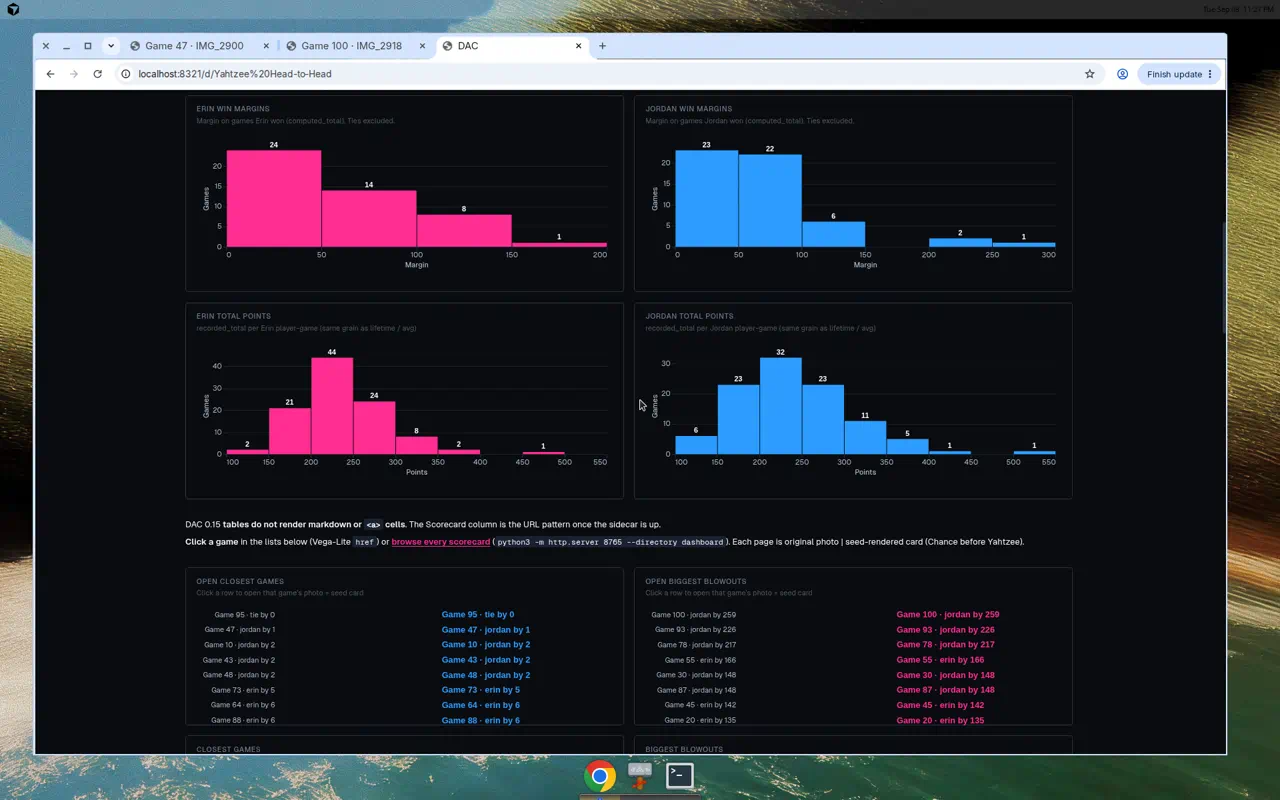
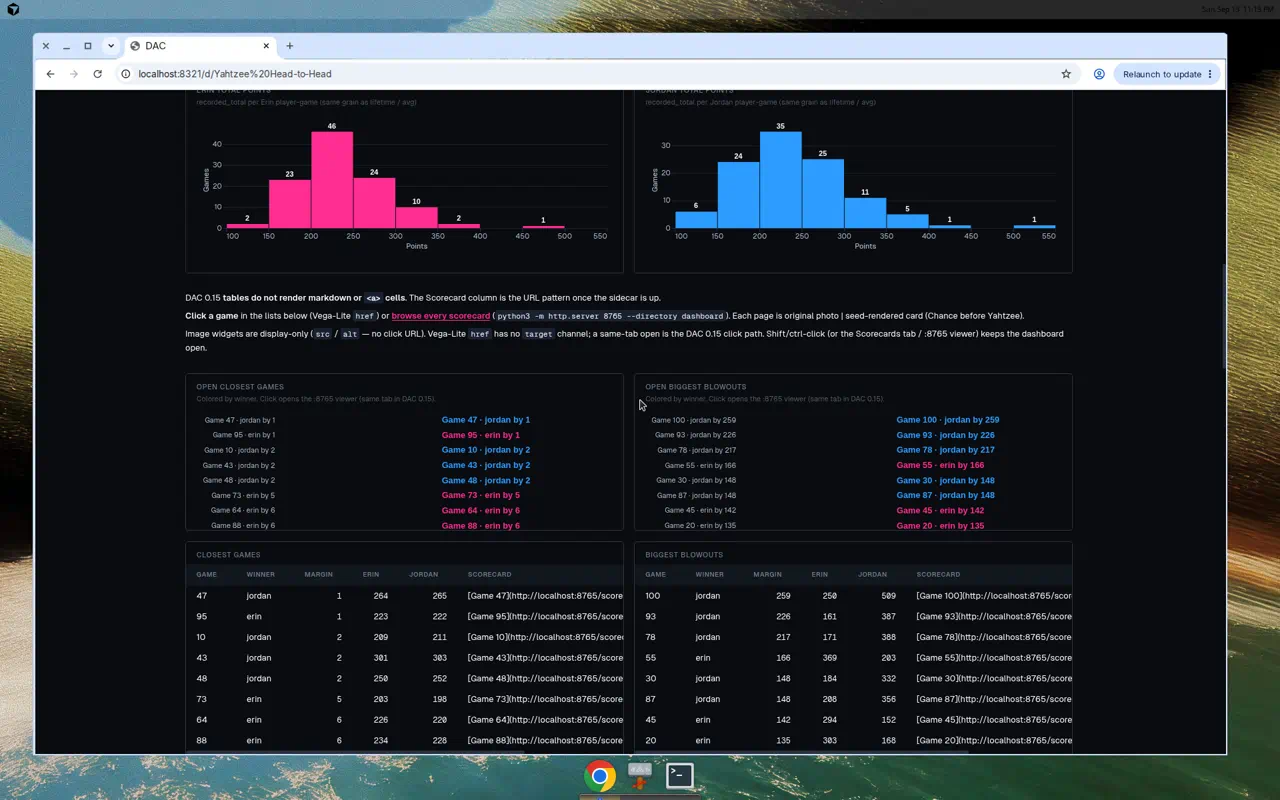
Document new-tab scorecard clicks and refresh dashboard screenshots.
Verify Vega-Lite usermeta loader target=_blank on DAC 0.17, update
Deep cuts help copy, and replace Strategy/Deep cuts captures.

diff --git a/dashboard/scorecards.md b/dashboard/scorecards.md
@@ -16,8 +16,8 @@ markdown, no `href` on cells):
 | `image` widget (`src` URL) | Yes | Static URL; no Jinja on `src` |
 | Filters (`select` / `text`) | Yes | Dashboard-wide — would clutter Overview |
 | Table cell markdown / `<a>` | No | Cells are formatted text only |
-| Vega-Lite `href` on a text mark | Yes (used here) | Clickable “Game N” lists on Deep cuts. Opens **same tab** — Vega-Lite has no `target` channel, and DAC 0.15 does not honor `usermeta.embedOptions.loader.target` for a new tab. Shift/ctrl-click or the Scorecards tab / :8765 viewer keeps the dashboard open. |
-| Image widget click / `href` | No | `src` + `alt` only. Cannot open a scorecard in a new tab from an image widget. |
+| Vega-Lite `href` on a text mark | Yes (used here) | Clickable “Game N” lists on Deep cuts. Vega-Lite has no `target` encoding; we set `usermeta.embedOptions.loader.target: _blank`. On DAC 0.17 that opens the :8765 viewer in a **new tab**. Image widgets cannot do this. |
+| Image widget click / `href` | No | `src` + `alt` only. Cannot open a scorecard (new tab or same tab) from an image widget. |
 | Arbitrary HTML / iframe in a widget | No | Same limit as the pub map |
 | Sidecar static HTML next to `dac serve` | **Yes** | This page — port 8765 |
 
